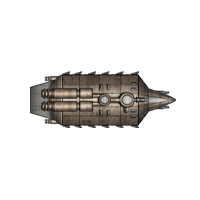
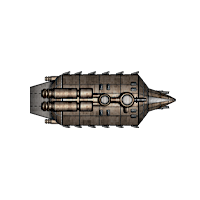
Raider imgs

diff --git a/source/server/model/ships/raiders/VreeSalvageZorth.php b/source/server/model/ships/raiders/VreeSalvageZorth.php
@@ -1,0 +1,50 @@
+<?php
+class VreeSalvageZorth extends FighterFlight{
+    
+    function __construct($id, $userid, $name,  $slot){
+        parent::__construct($id, $userid, $name,  $slot);
+        
+        $this->pointCost = 35*6;
+		$this->faction = "Vree Conglomerate";
+		$this->phpclass = "ZFtrZorth";
+        $this->shipClass = "Zorth Light Fighters";
+        $this->imagePath = "img/ships/VreeSalvageZorth.png";
+        
+        $this->faction = "Vree Conglomerate";
+	    $this->isd = 2162;
+        $this->notes = 'Each hangar space on a ship can stack two Zorth fighters.';	    
+
+        $this->forwardDefense = 6;
+        $this->sideDefense = 6;
+        $this->freethrust = 12;
+        $this->gravitic = true;
+        $this->offensivebonus = 6;
+        $this->jinkinglimit = 10;
+        $this->turncost = 0.33;
+        $this->iniativebonus = 100;
+		$this->unitSize = 2; 
+        $this->pivotcost = 0;		       
+
+        
+        $this->populate();
+    }
+
+    public function populate(){
+        $current = count($this->systems);
+        $new = $this->flightSize;
+        $toAdd = $new - $current;
+        for ($i = 0; $i < $toAdd; $i++){
+            $armour = array(1, 1, 1, 1);
+            $fighter = new Fighter("Zorth", $armour, 9, $this->id);
+            $fighter->displayName = "Zorth";
+            $fighter->imagePath = "img/ships/VreeSalvageZorth.png";
+            $fighter->iconPath = "img/ships/VreeSalvageZorth_Large.png";
+            $fighter->addFrontSystem(new LightAntiprotonGun(300, 60, 1));
+			
+			$fighter->addAftSystem(new RammingAttack(0, 0, 360, $fighter->getRammingFactor(), 0)); //ramming attack
+			
+            $this->addSystem($fighter);
+        }
+    }
+}
+?>

diff --git a/source/server/model/ships/raiders/ruffian1972.php b/source/server/model/ships/raiders/ruffian1972.php
@@ -7,12 +7,13 @@ class Ruffian1972 extends BaseShip{
   		$this->pointCost = 320;
   		$this->faction = "Raiders";
         $this->phpclass = "Ruffian1972";
-        $this->imagePath = "img/ships/RaiderBattlewagon.png"; //needs to be changed
+        $this->imagePath = "img/ships/RaiderRuffian.png"; //needs to be changed
         $this->shipClass = "Ruffian Cruiser (1972)";
 			$this->variantOf = "Ruffian Cruiser";	    
 			$this->occurence = "common";
         $this->shipSizeClass = 3;
         $this->fighters = array("normal"=>18);
+		$this->canvasSize = 175;		
         
 		$this->notes = "Generic raider unit.";
 

diff --git a/source/server/model/ships/raiders/looter.php b/source/server/model/ships/raiders/looter.php
@@ -7,11 +7,12 @@ class Looter extends BaseShip{
   		$this->pointCost = 340;
   		$this->faction = "Raiders";
         $this->phpclass = "Looter";
-        $this->imagePath = "img/ships/RaiderBattlewagon.png"; //needs to be changed
+        $this->imagePath = "img/ships/RaiderLooter.png"; //needs to be changed
         $this->shipClass = "Looter Support Cruiser";
         $this->shipSizeClass = 3;
         $this->fighters = array("normal"=>12);
         $this->limited = 33; //Limited Deployment
+		$this->canvasSize = 175;		
         
 		$this->notes = "Generic raider unit.";
 		$this->notes .= "<br> ";

diff --git a/source/server/model/ships/raiders/ruffian.php b/source/server/model/ships/raiders/ruffian.php
@@ -7,10 +7,11 @@ class Ruffian extends BaseShip{
   		$this->pointCost = 300;
   		$this->faction = "Raiders";
         $this->phpclass = "Ruffian";
-        $this->imagePath = "img/ships/RaiderBattlewagon.png"; //needs to be changed
+        $this->imagePath = "img/ships/RaiderRuffian.png"; //needs to be changed
         $this->shipClass = "Ruffian Cruiser";
         $this->shipSizeClass = 3;
         $this->fighters = array("normal"=>18);
+		$this->canvasSize = 175;		
         
 		$this->notes = "Generic raider unit.";
 
